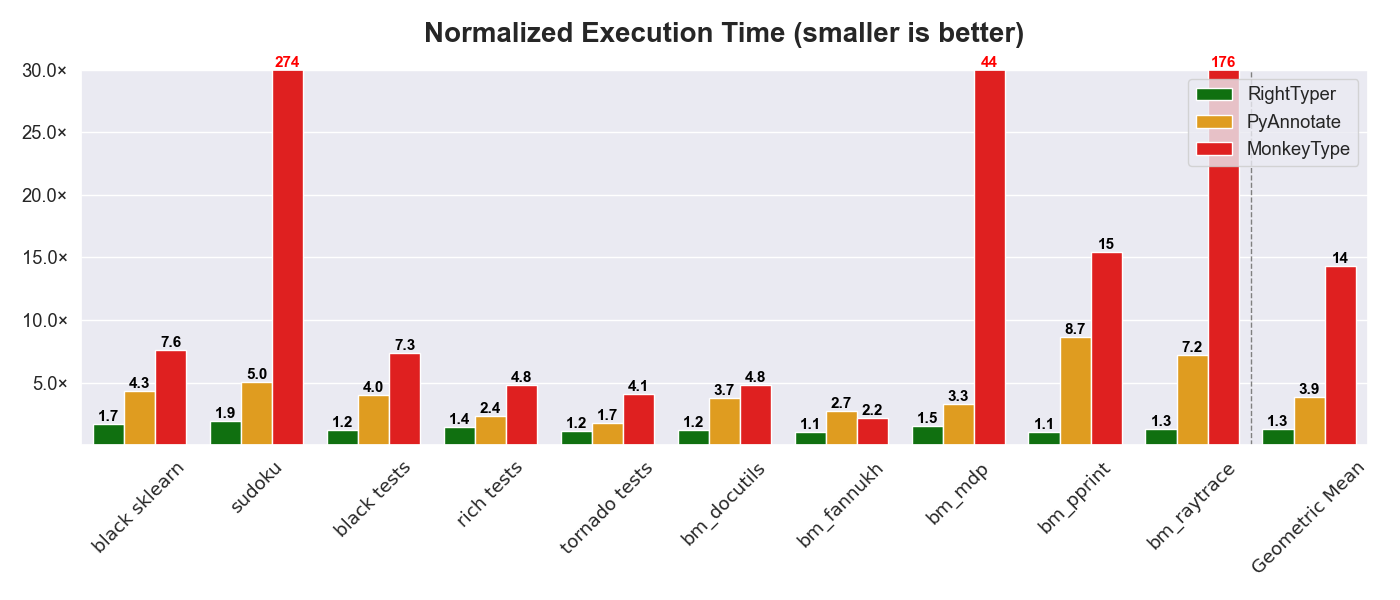
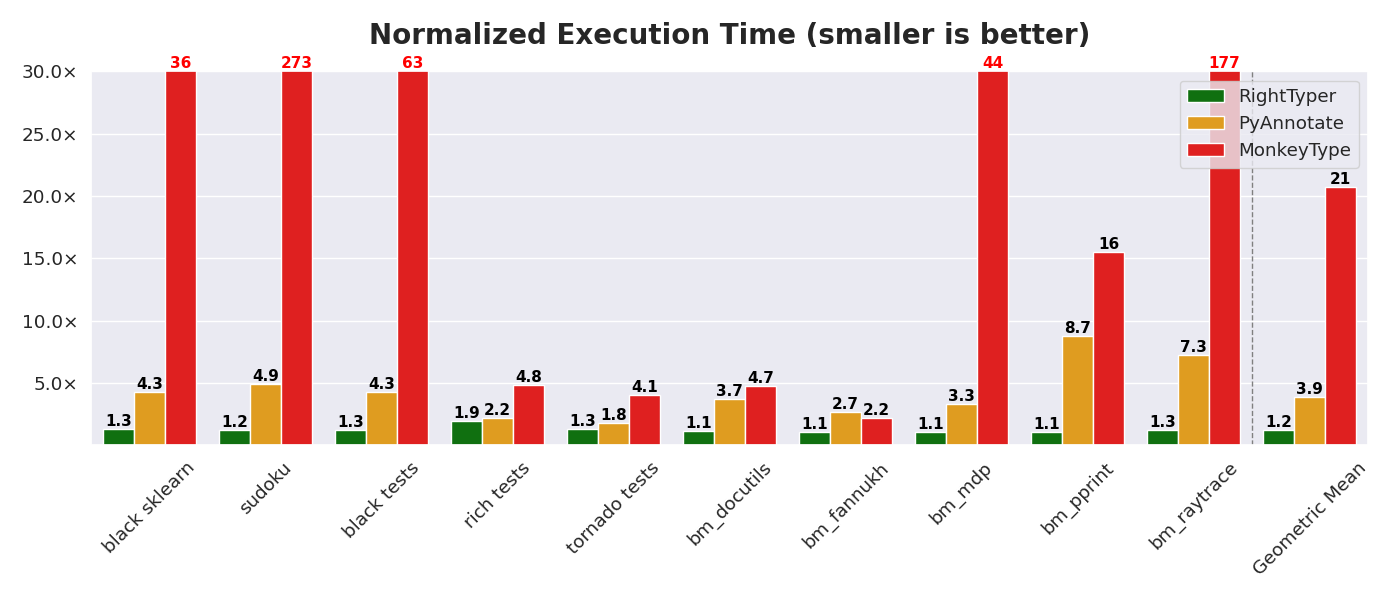
- updating benchmarks;

diff --git a/README.md b/README.md
@@ -7,7 +7,7 @@
 ![tests](https://github.com/righttyper/righttyper/workflows/tests/badge.svg)
 
 RightTyper is a Python tool that generates types for your function arguments and return values.
-RightTyper lets your code run at nearly full speed (around 30% overhead) and little memory overhead.
+RightTyper lets your code run at nearly full speed (below 25% overhead) and little memory overhead.
 As a result, you won't experience slowdowns in your code or large memory consumption while using it,
 allowing you to integrate it with your standard tests and development process.
 By virtue of its design, and in a significant departure from previous approaches, RightTyper only captures the most commonly used types,
@@ -30,8 +30,8 @@ For details about how RightTyper works, please see the following paper: **[Right
 
 ## Performance Comparison
 The graph below presents the overhead of using RightTyper versus two previous tools, PyAnnotate and MonkeyType, across a range of benchmarks.
-On average, RightTyper imposes only 30% overhead compared to running plain Python.
-On running the tests of a popular package (black), RightTyper imposes only 20% overhead, while MonkeyType slows down execution by over 6x.
+On average, RightTyper imposes less than 25% overhead compared to running plain Python.
+On running the popular "black", RightTyper imposes only 30% overhead, while MonkeyType slows down execution by 35x.
 In extreme cases, MonkeyType runs over 270x slower than RightTyper.
 
 ![Overhead](docs/benchmark_comparison_execution_times.png)
